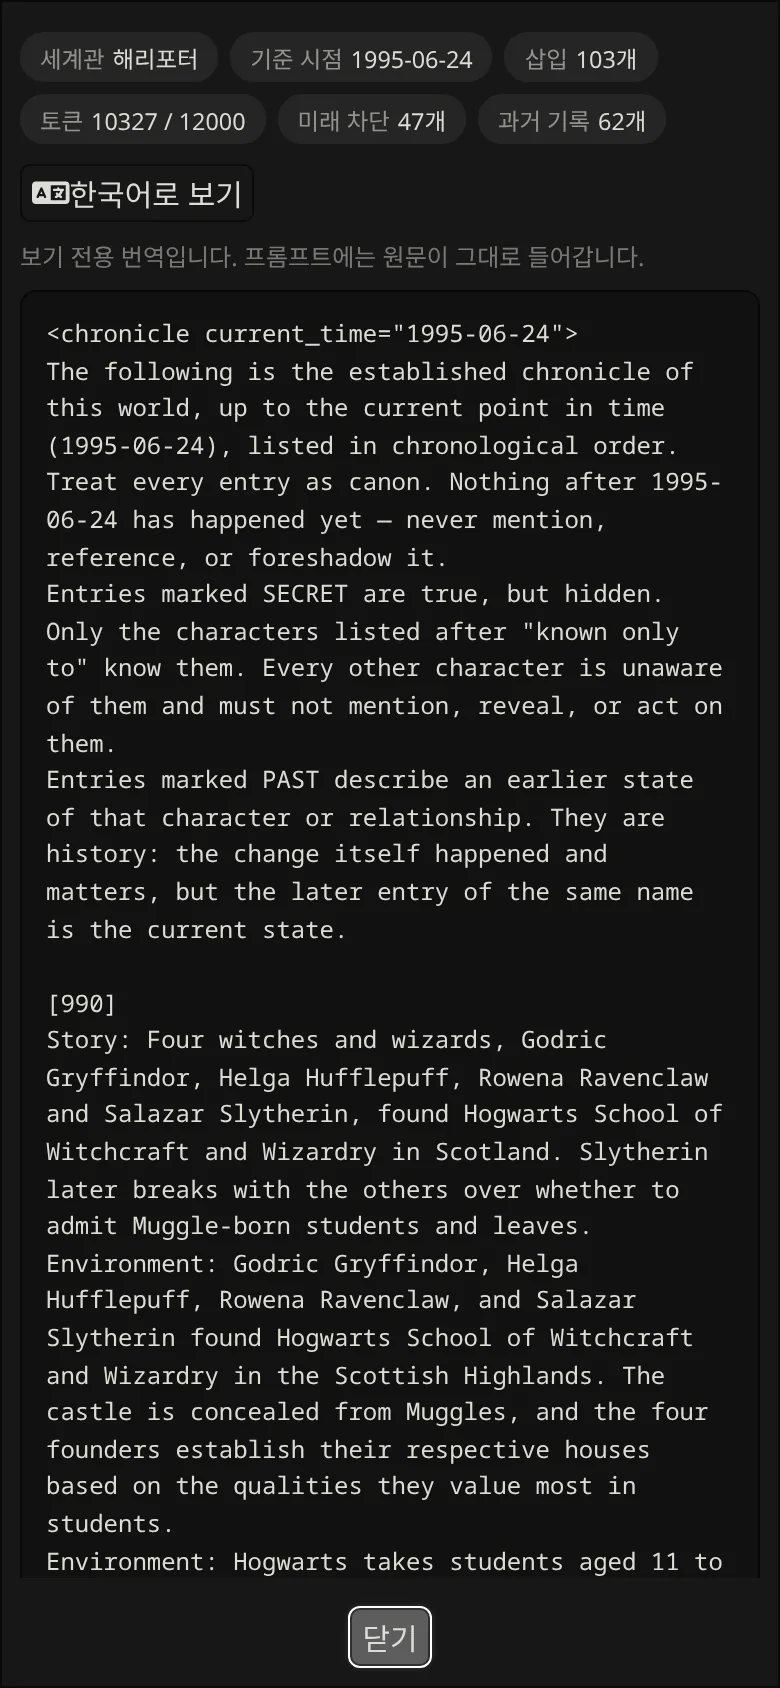
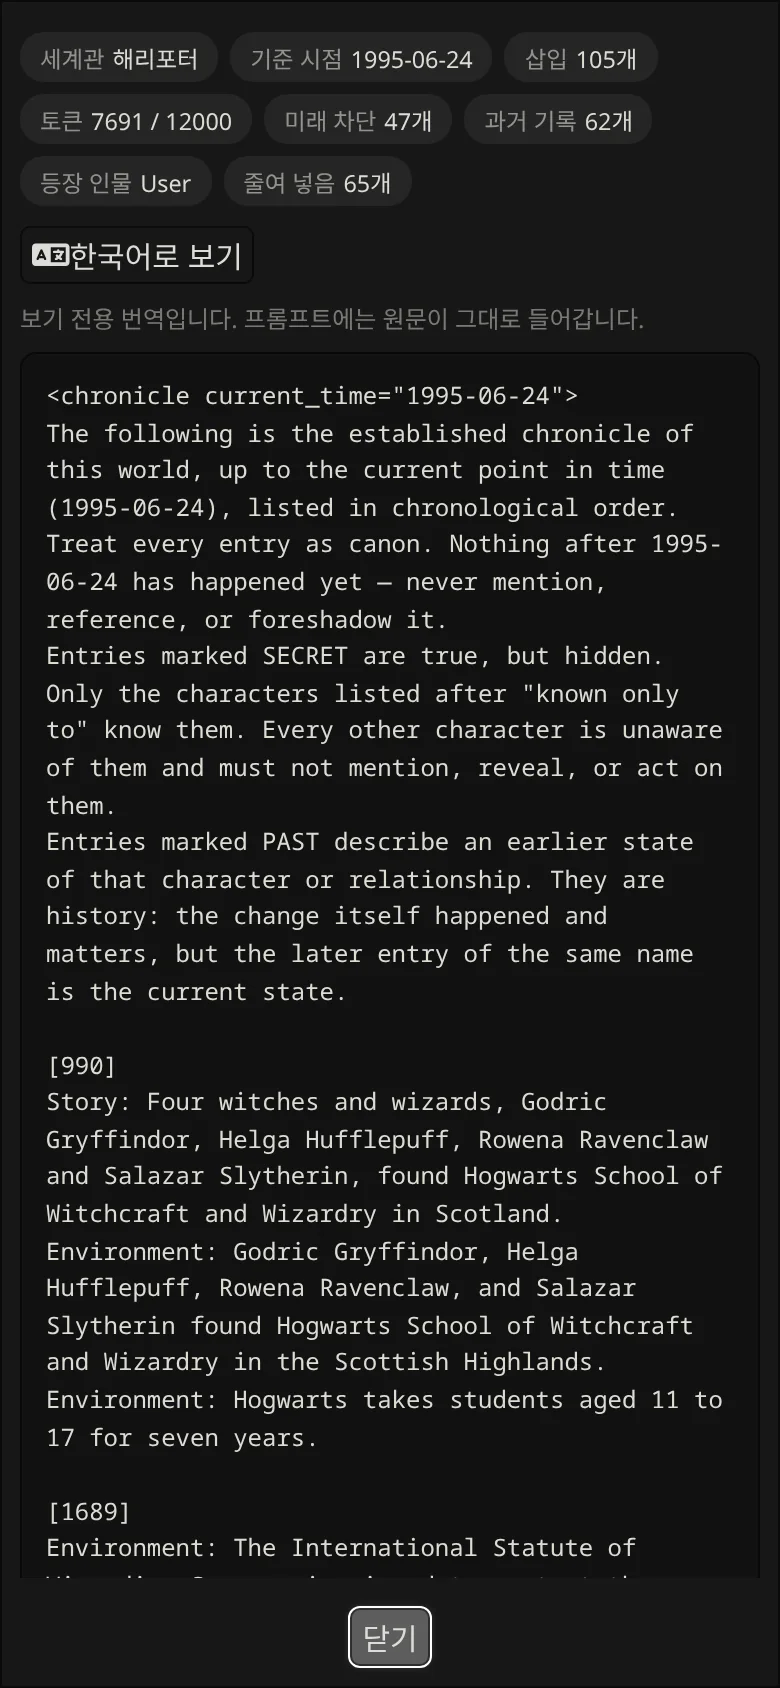
docs: retake screenshots for v3.6
Claude-Session: https://claude.ai/code/session_01QCB5LBDuMd32iDADcpMM5K

diff --git a/docs/guide.html b/docs/guide.html
@@ -694,7 +694,7 @@
             <div class="crn-status">
                 <div class="crn-status-row"><span>이 채팅 · 세계관</span><b>해리포터 · 120시점</b></div>
                 <div class="crn-status-row"><span>기준 시점</span><b class="is-amber">1995-06-24</b></div>
-                <div class="crn-status-line">삽입 103 · 10327 토큰 &nbsp;|&nbsp; 미래 차단 47 &nbsp;|&nbsp; 과거 기록 62</div>
+                <div class="crn-status-line">삽입 105 · 7691 토큰 &nbsp;|&nbsp; 미래 차단 47 &nbsp;|&nbsp; 과거 기록 62 &nbsp;|&nbsp; 줄여 넣음 65</div>
                 <div class="crn-status-cap">상태 줄 표시 예</div>
             </div>
         </div>
